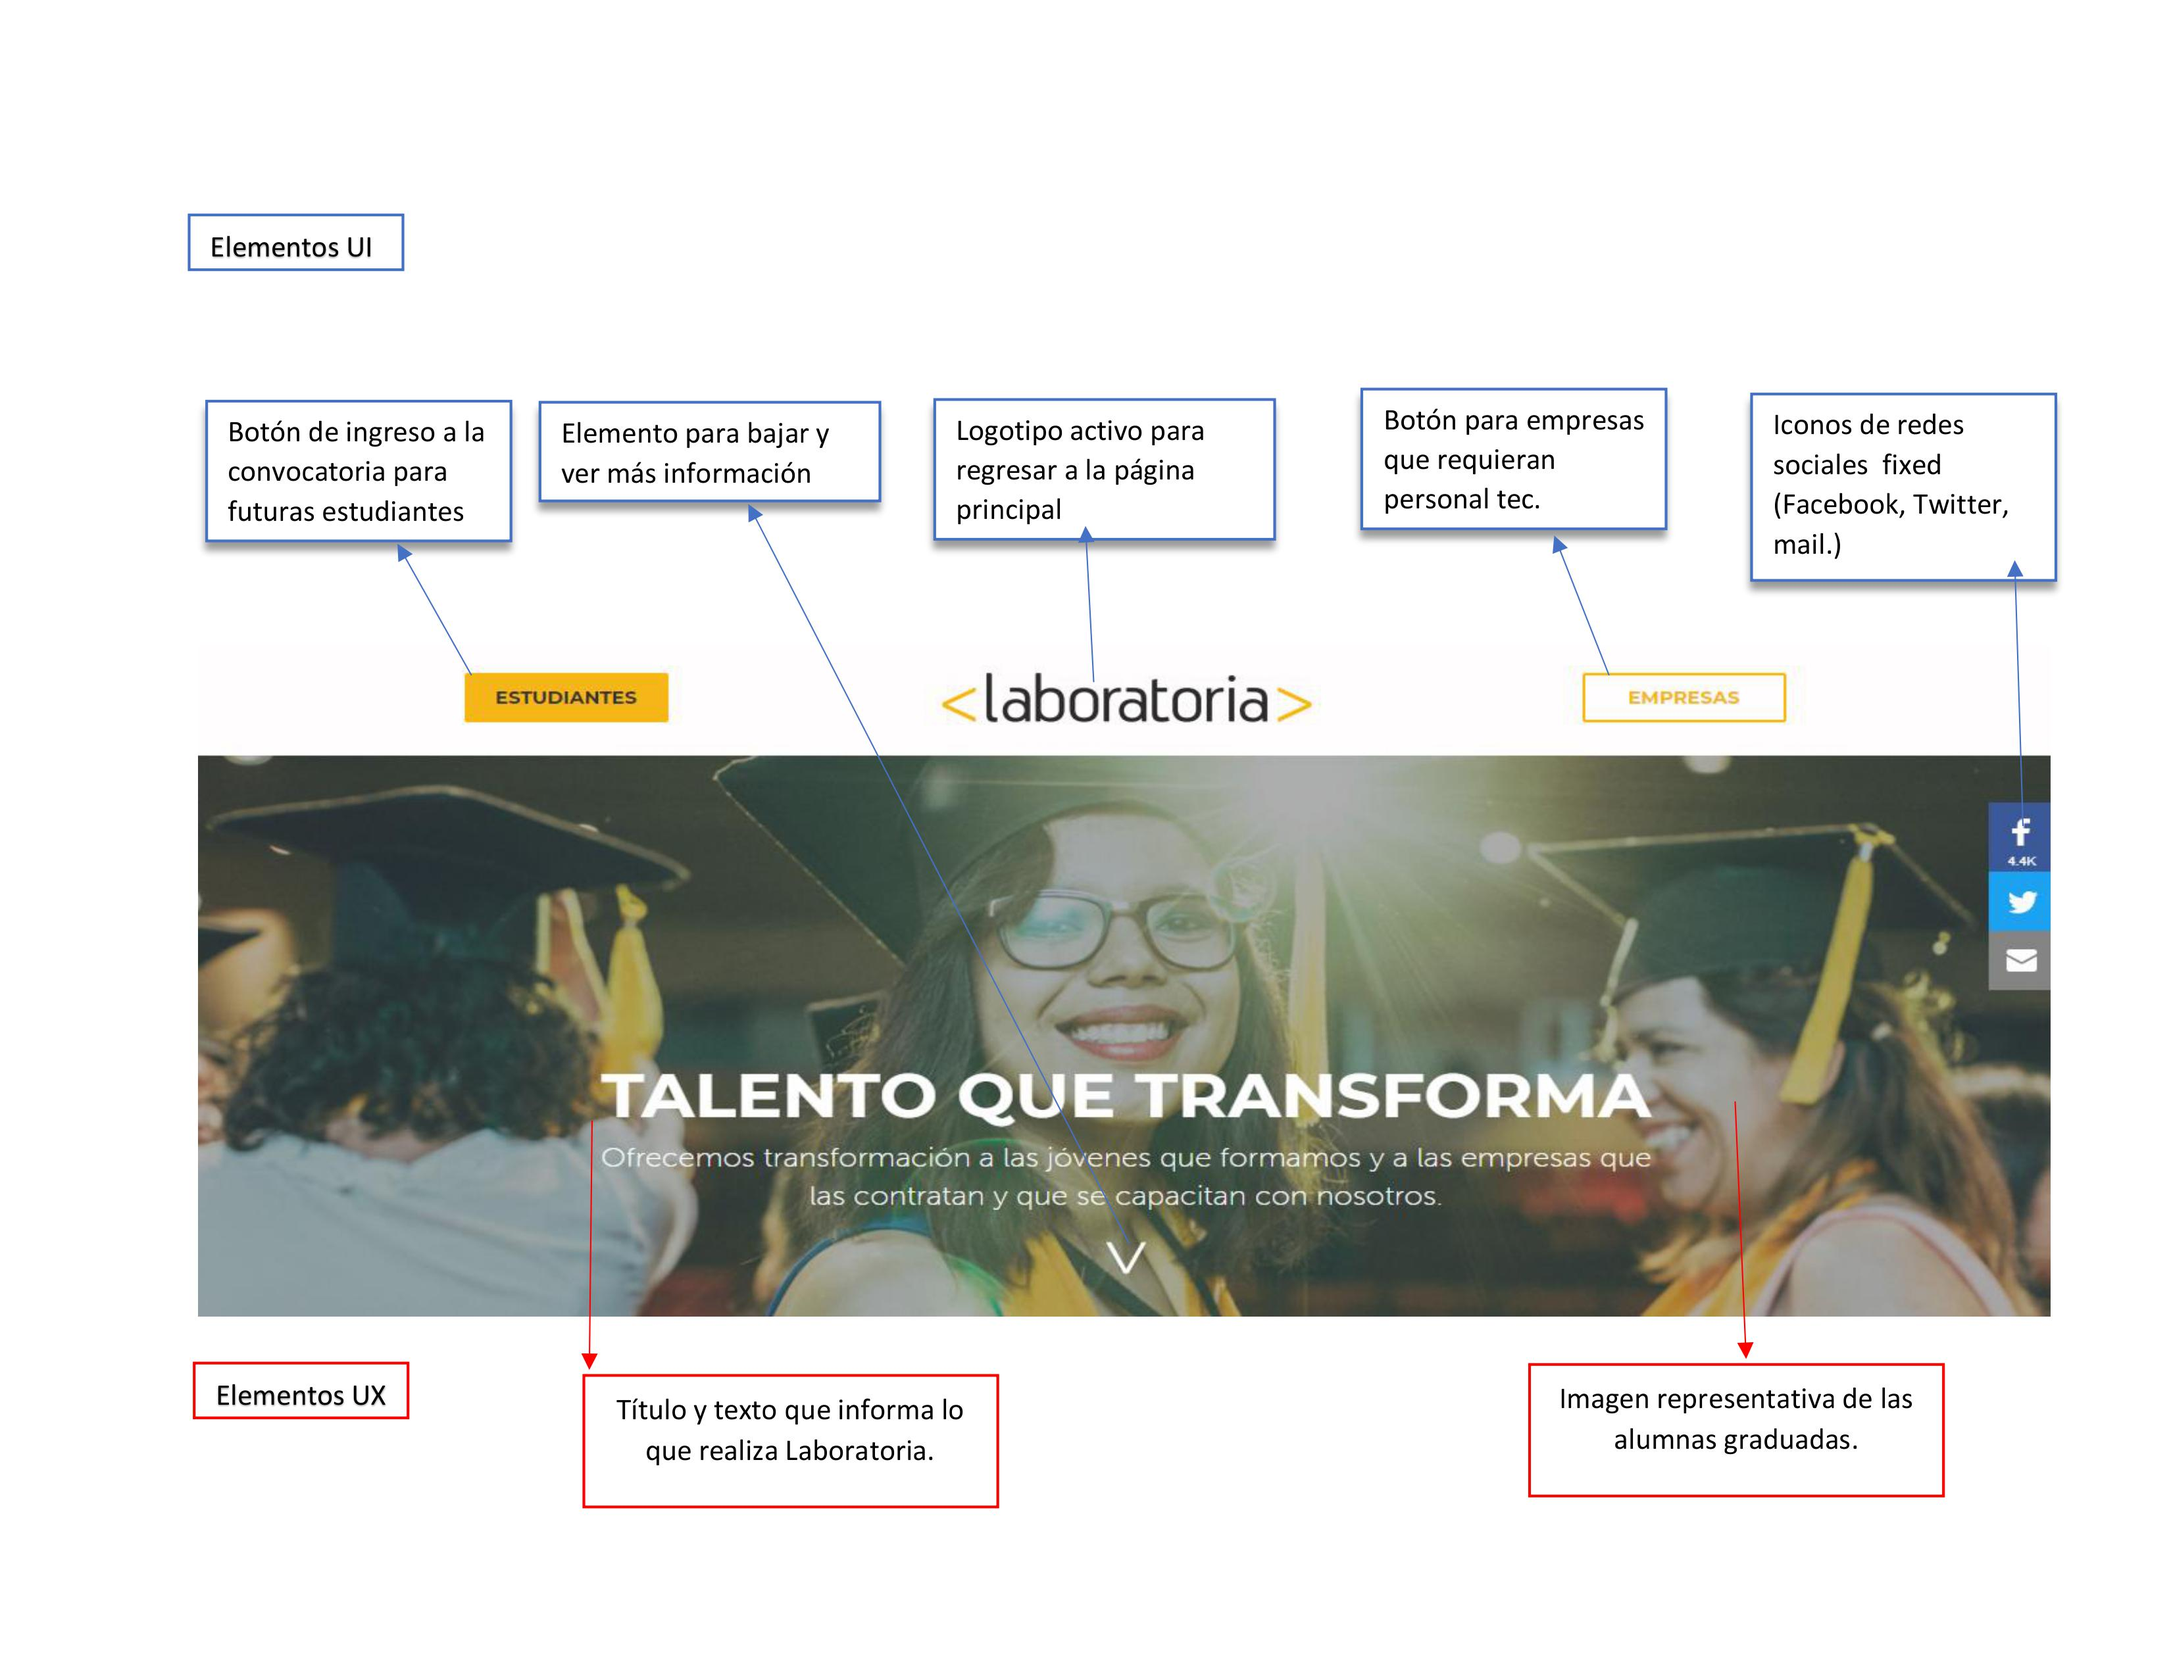
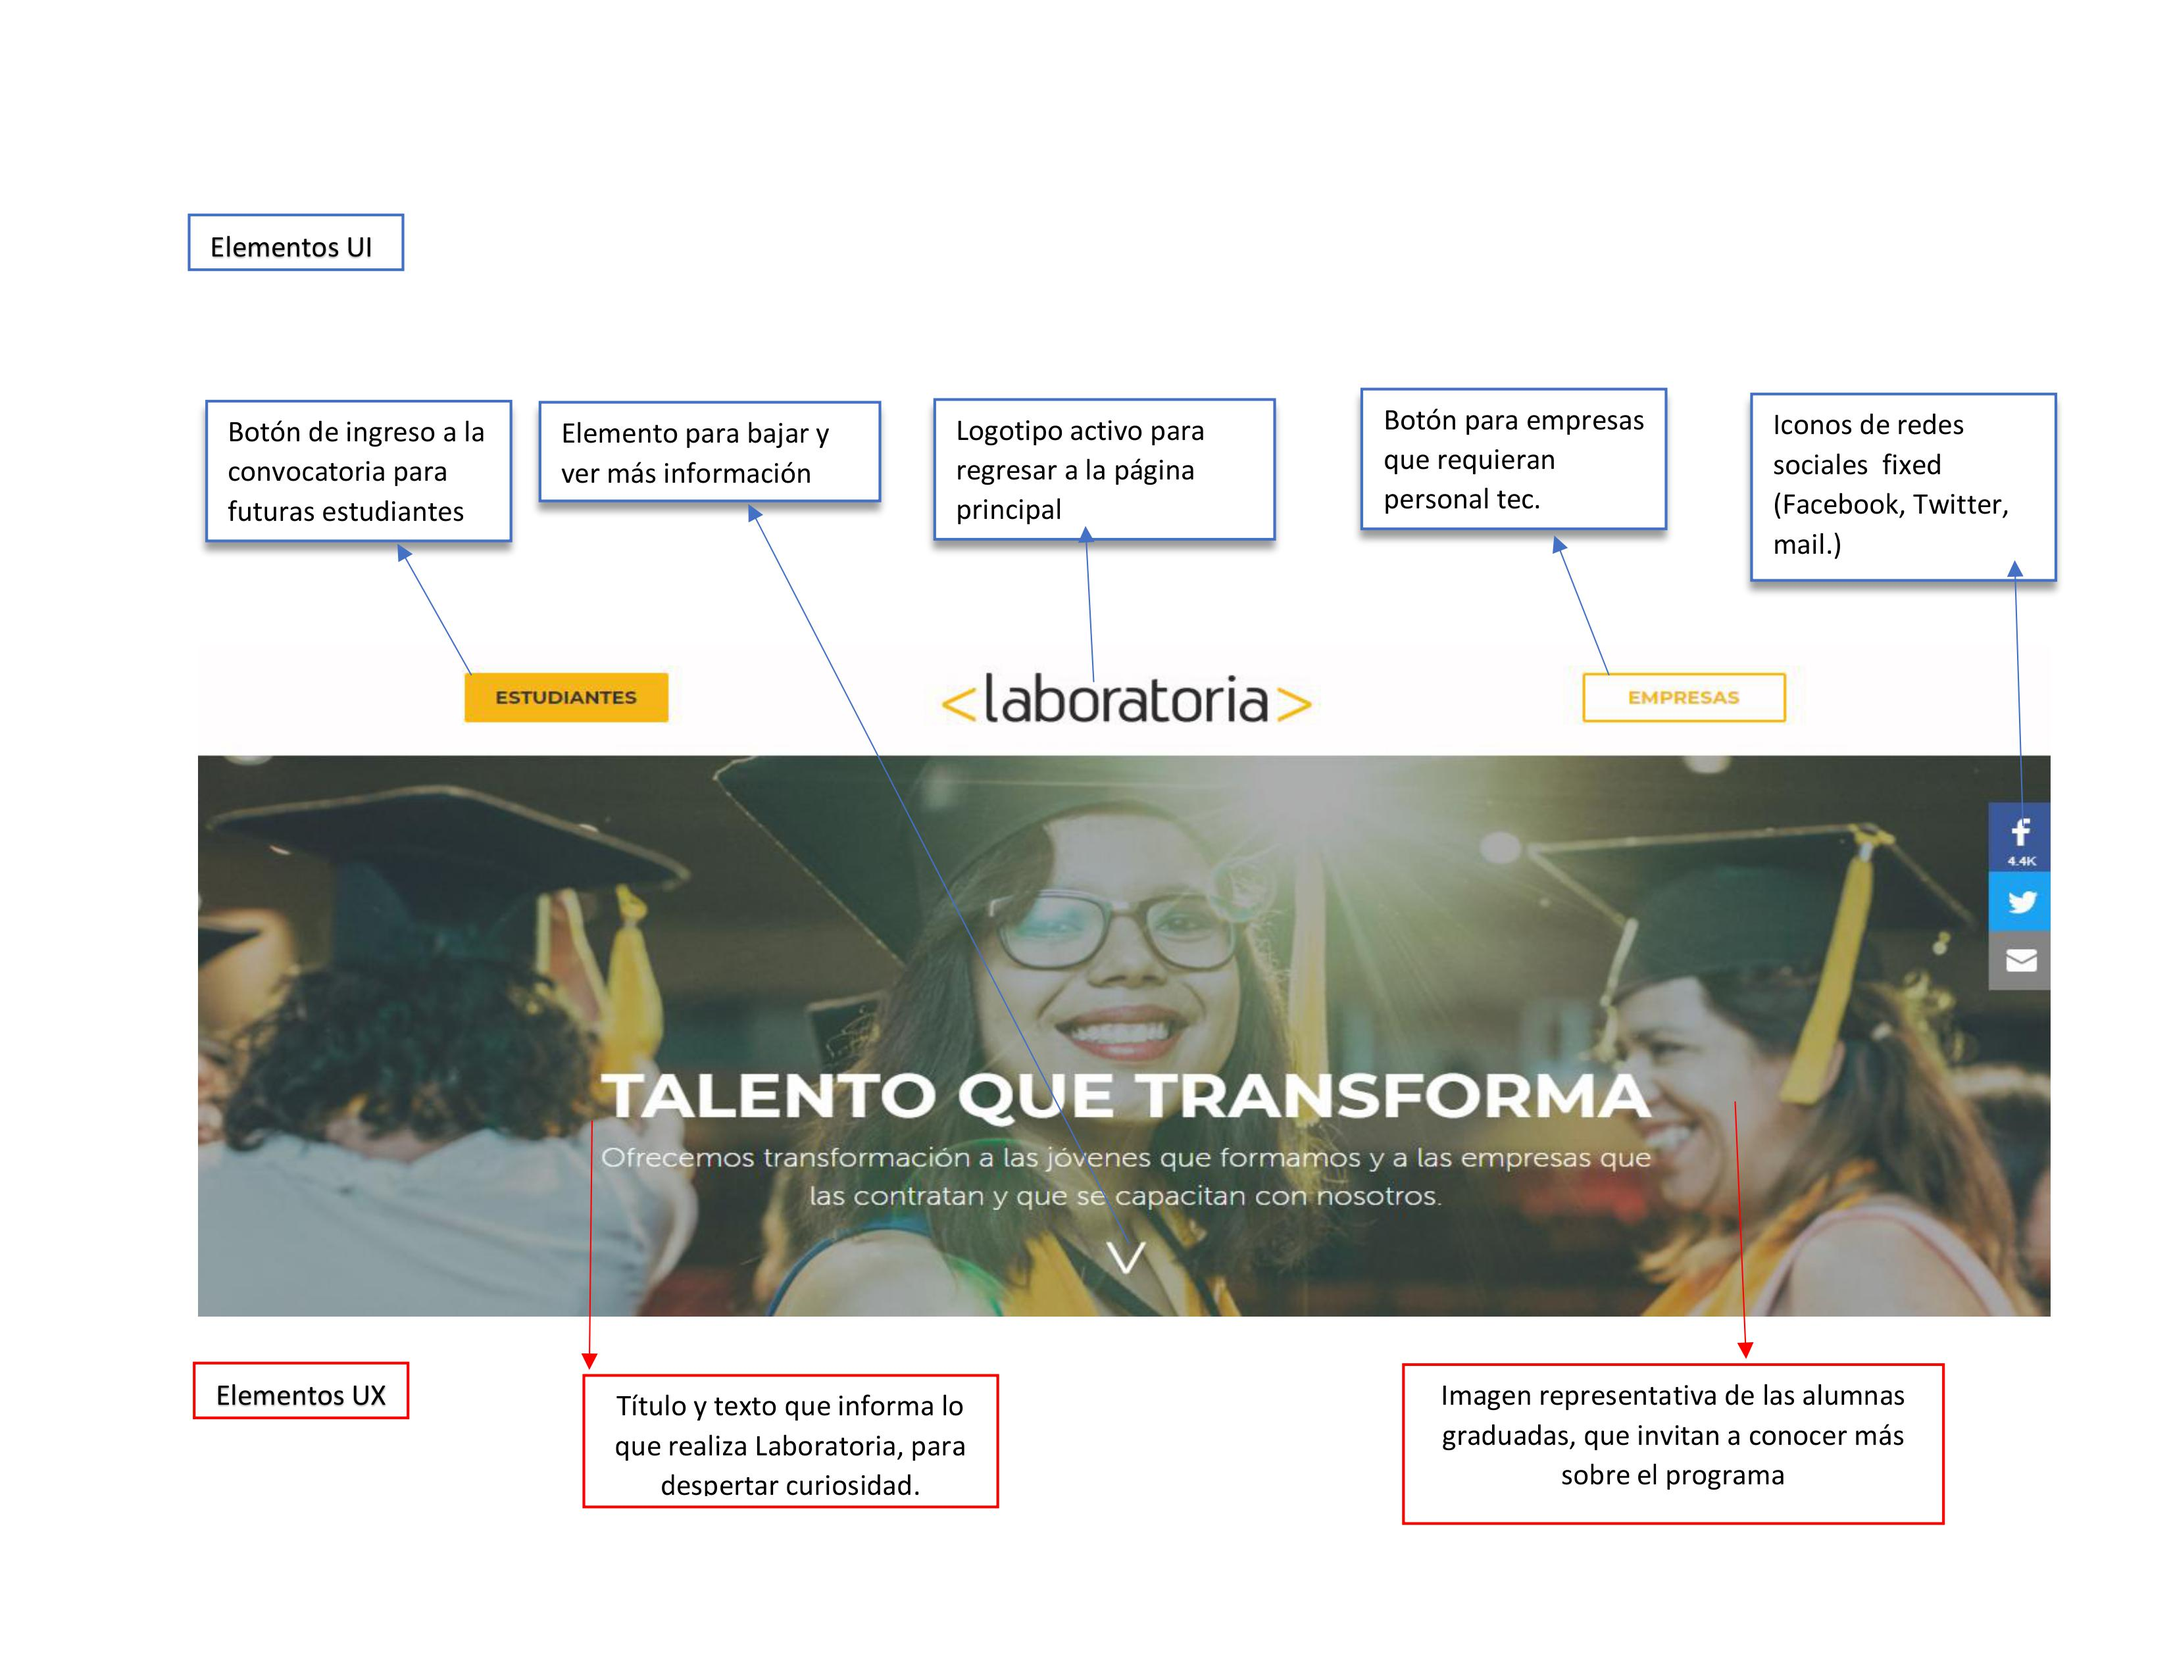
correcciones

Changed region(s): [[0.6555, 0.8055, 0.8739, 0.8984], [0.2809, 0.8365, 0.437, 0.8984]]

diff --git a/README.md b/README.md
@@ -1,6 +1,17 @@
 #SOLUCIONARIO
 
-## Ejercicio 1 Definir partes conforman el UX y qué partes el UI de la web laboratora.
+## Ejercicio 1 Definir partes conforman el UX y qué partes el UI de la web laboratoria.
+# Los objetivos de negocio de Laboratoria son:
+	a) Reclutamiento de mujeres que tengan gusto por la programación y tengan deseos de crecer y tener una carrera en la industria tecnológica.
+	b) Reclutamiento de empresas que busquen talento con conocimientos en programación para incorporarse a sus equipos.
+# Elementos generales de UX:  Por medio de distintos elementos se busca crear cohesión y credibilidad del proyecto, tiene dos principales grupos obetivos una son los empleadores y otras las futuras candidatas de laboratoria que quieren aplicar para los siguientes bootcamp. Por medio de iconos, imágenes, textos y frases se busca crear credibilidad, confianza para estos grupos objetivos. Con una interface amigable, que conserva la línea institucional, donde intercala datos duros y elemento emotivo.
+
+# Elementos generales de UI: Se crea un eje de campaña con la conservación de colores y tipografía institucional, las imágenes son expresivas y se expanden a lo ancho del sitio, que contrasta con los textos. Se mantiene el equilibrio entre los elementos tanto en el ancho como en el alto, los botones de Call To Action (CTA) son precisos en una palabra, indica lo que ser requiere del usuario.
+
+# En general es un diseño limpio e intuitivo, podría considerarse ser más explicitos en los botones del inicio para saber si estudiantes se refiere a las estudiantes en turno o las personas que quieren aplicar, cuando das scroll identificas la convocatoria, sin embargo sería conveniente tenerlo desde el menú principal está diferenciación.
+
+  
+
 ![Laboratoria](laboratoria/0001.jpg)
 ![Laboratoria](laboratoria/0002.jpg)
 ![Laboratoria](laboratoria/0003.jpg)
@@ -11,15 +22,16 @@
 ![Laboratoria](laboratoria/0008.jpg)
 
 ## Ejercicio 2 Identifica los elementos de navegación en github
-![GITHUB](github/github1.jpg)
-![GITHUB](github/github2.jpg)
-![GITHUB](github/github3.jpg)
-![GITHUB](github/github4.jpg)
-![GITHUB](github/github5.jpg)
-![GITHUB](github/github6.jpg)
-![GITHUB](github/github7.jpg)
-![GITHUB](github/github8.jpg)
-![GITHUB](github/github9.jpg)
+Fuente de información http://www.uxlumen.com/modelos-de-navegacion/
+![GITHUB](github/0001.jpg)
+![GITHUB](github/0002.jpg)
+![GITHUB](github/0003.jpg)
+![GITHUB](github/0004.jpg)
+![GITHUB](github/0005.jpg)
+![GITHUB](github/0006.jpg)
+![GITHUB](github/0007.jpg)
+![GITHUB](github/0008.jpg)
+![GITHUB](github/0009.jpg)
 
 ## Ejercicio 3 Crea un sketch para la herramienta del dashboard de Laboratoria
 
